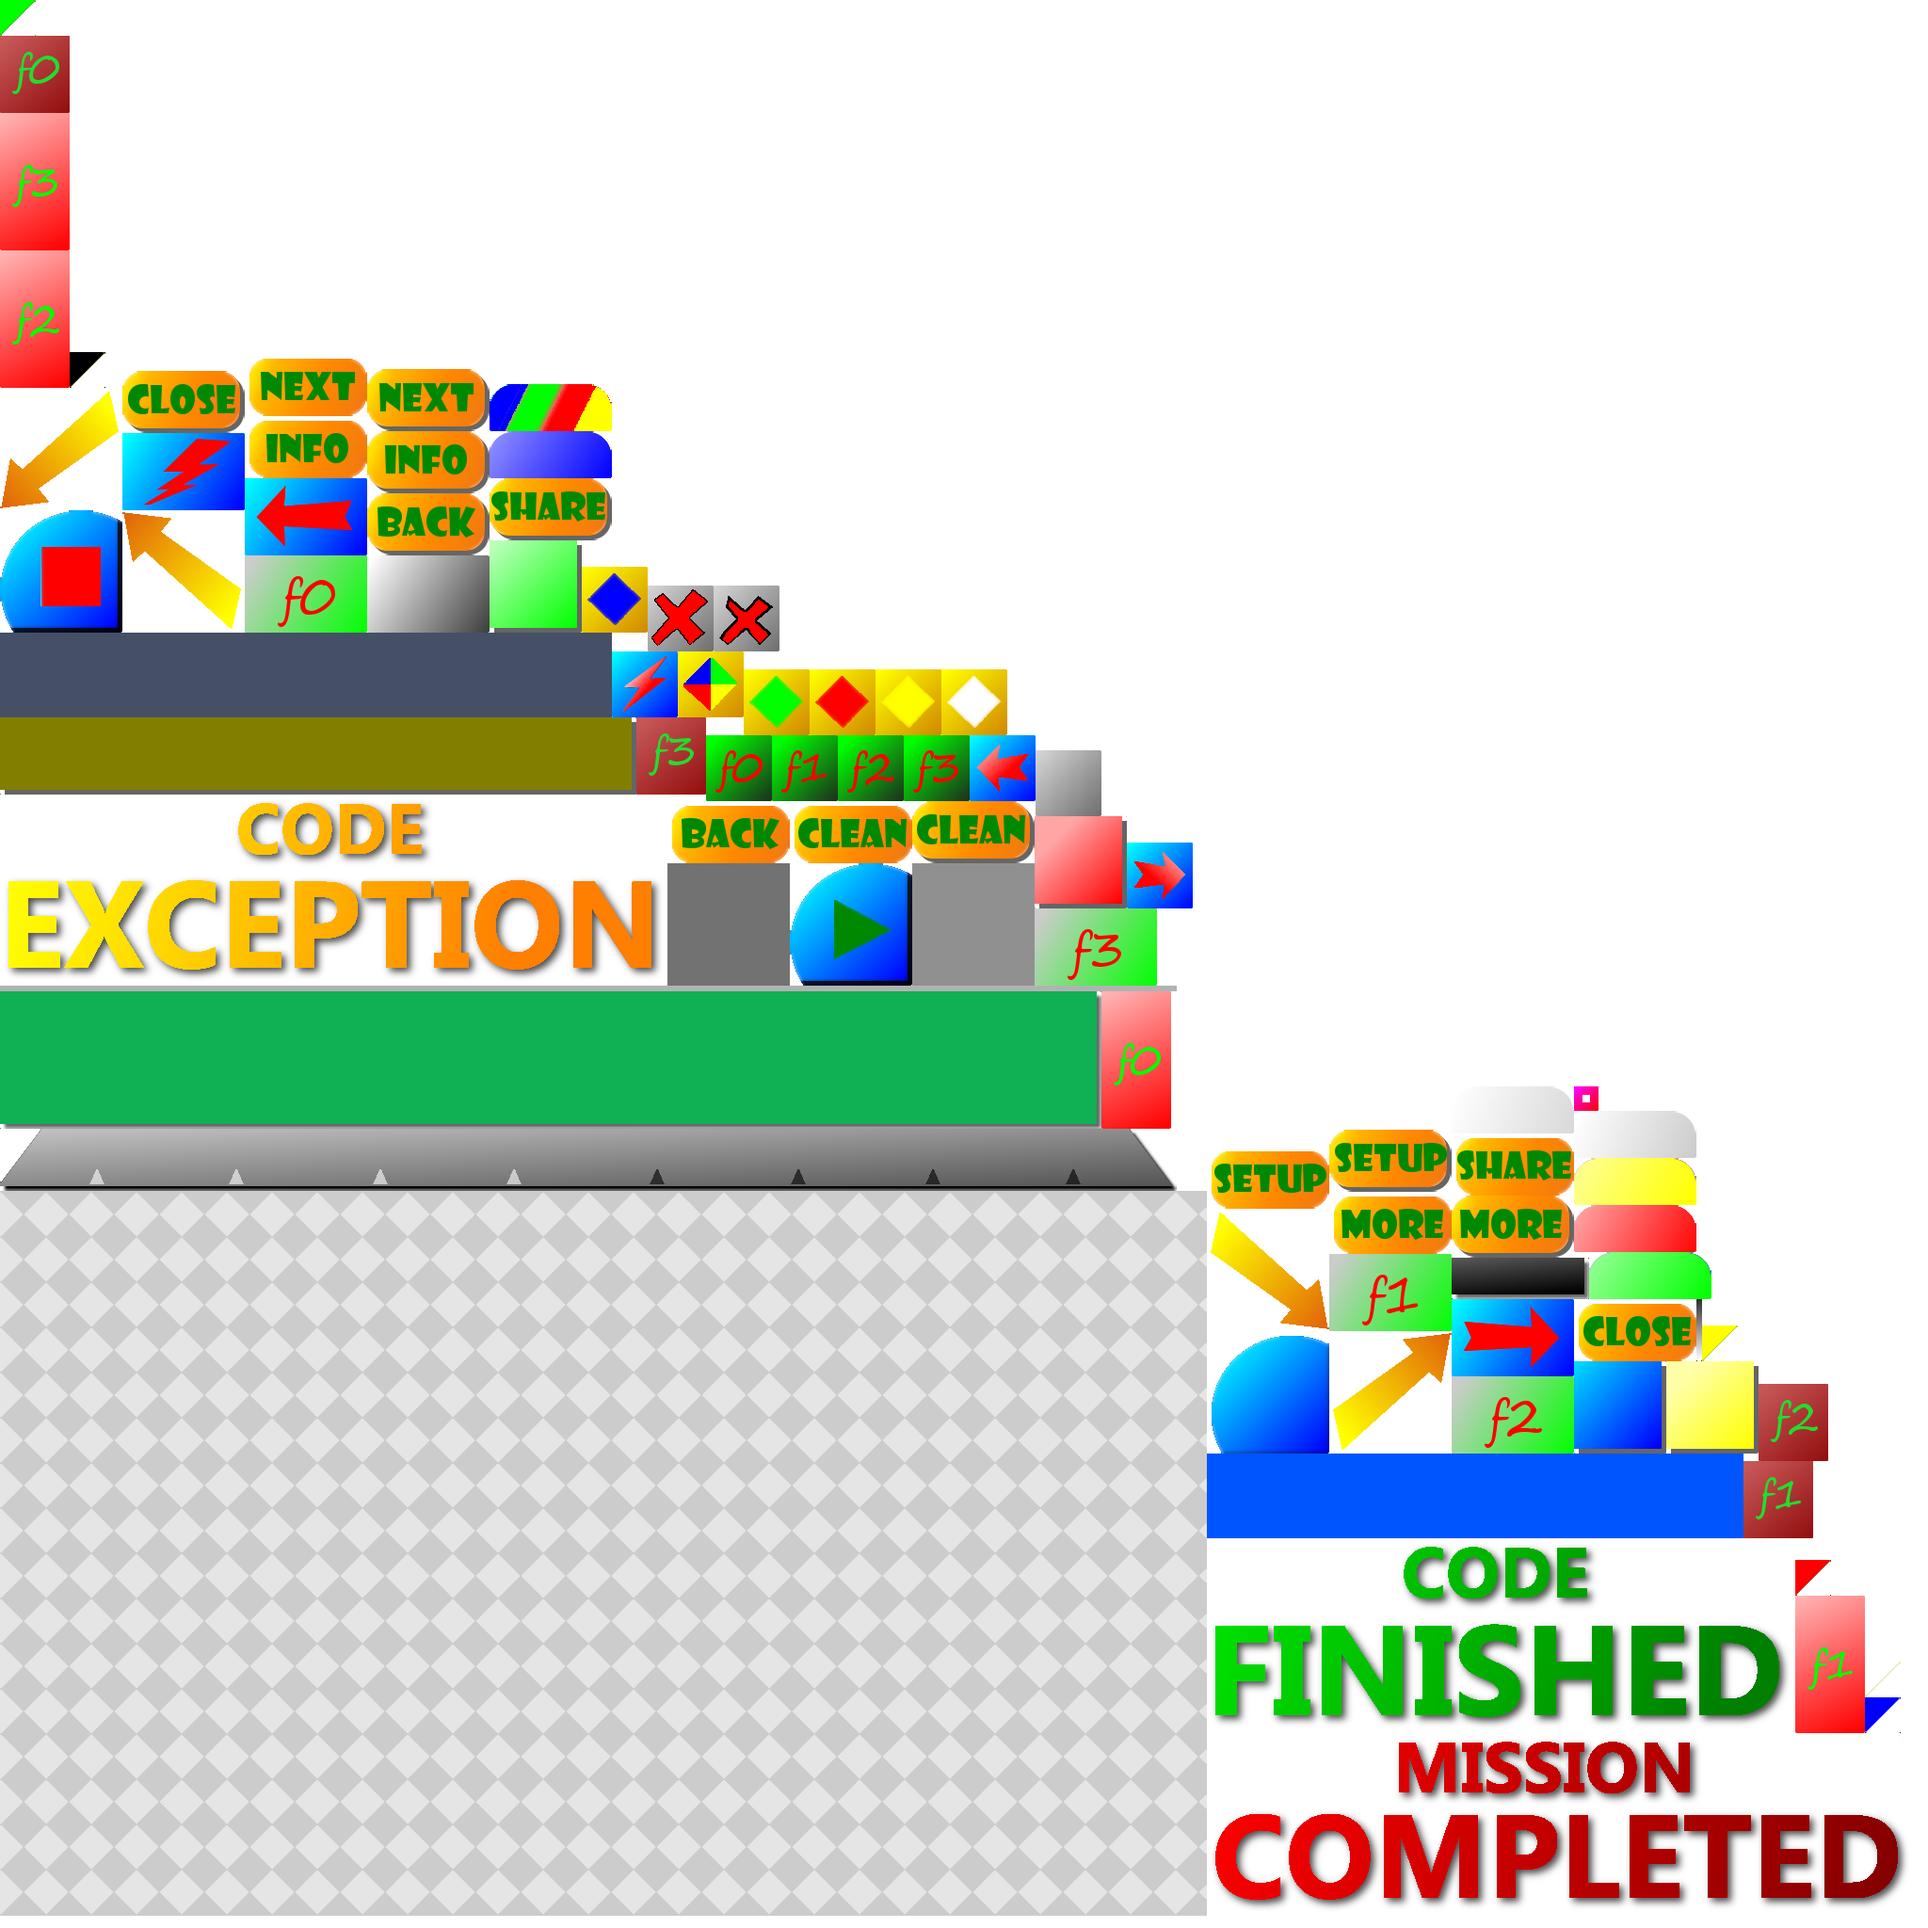
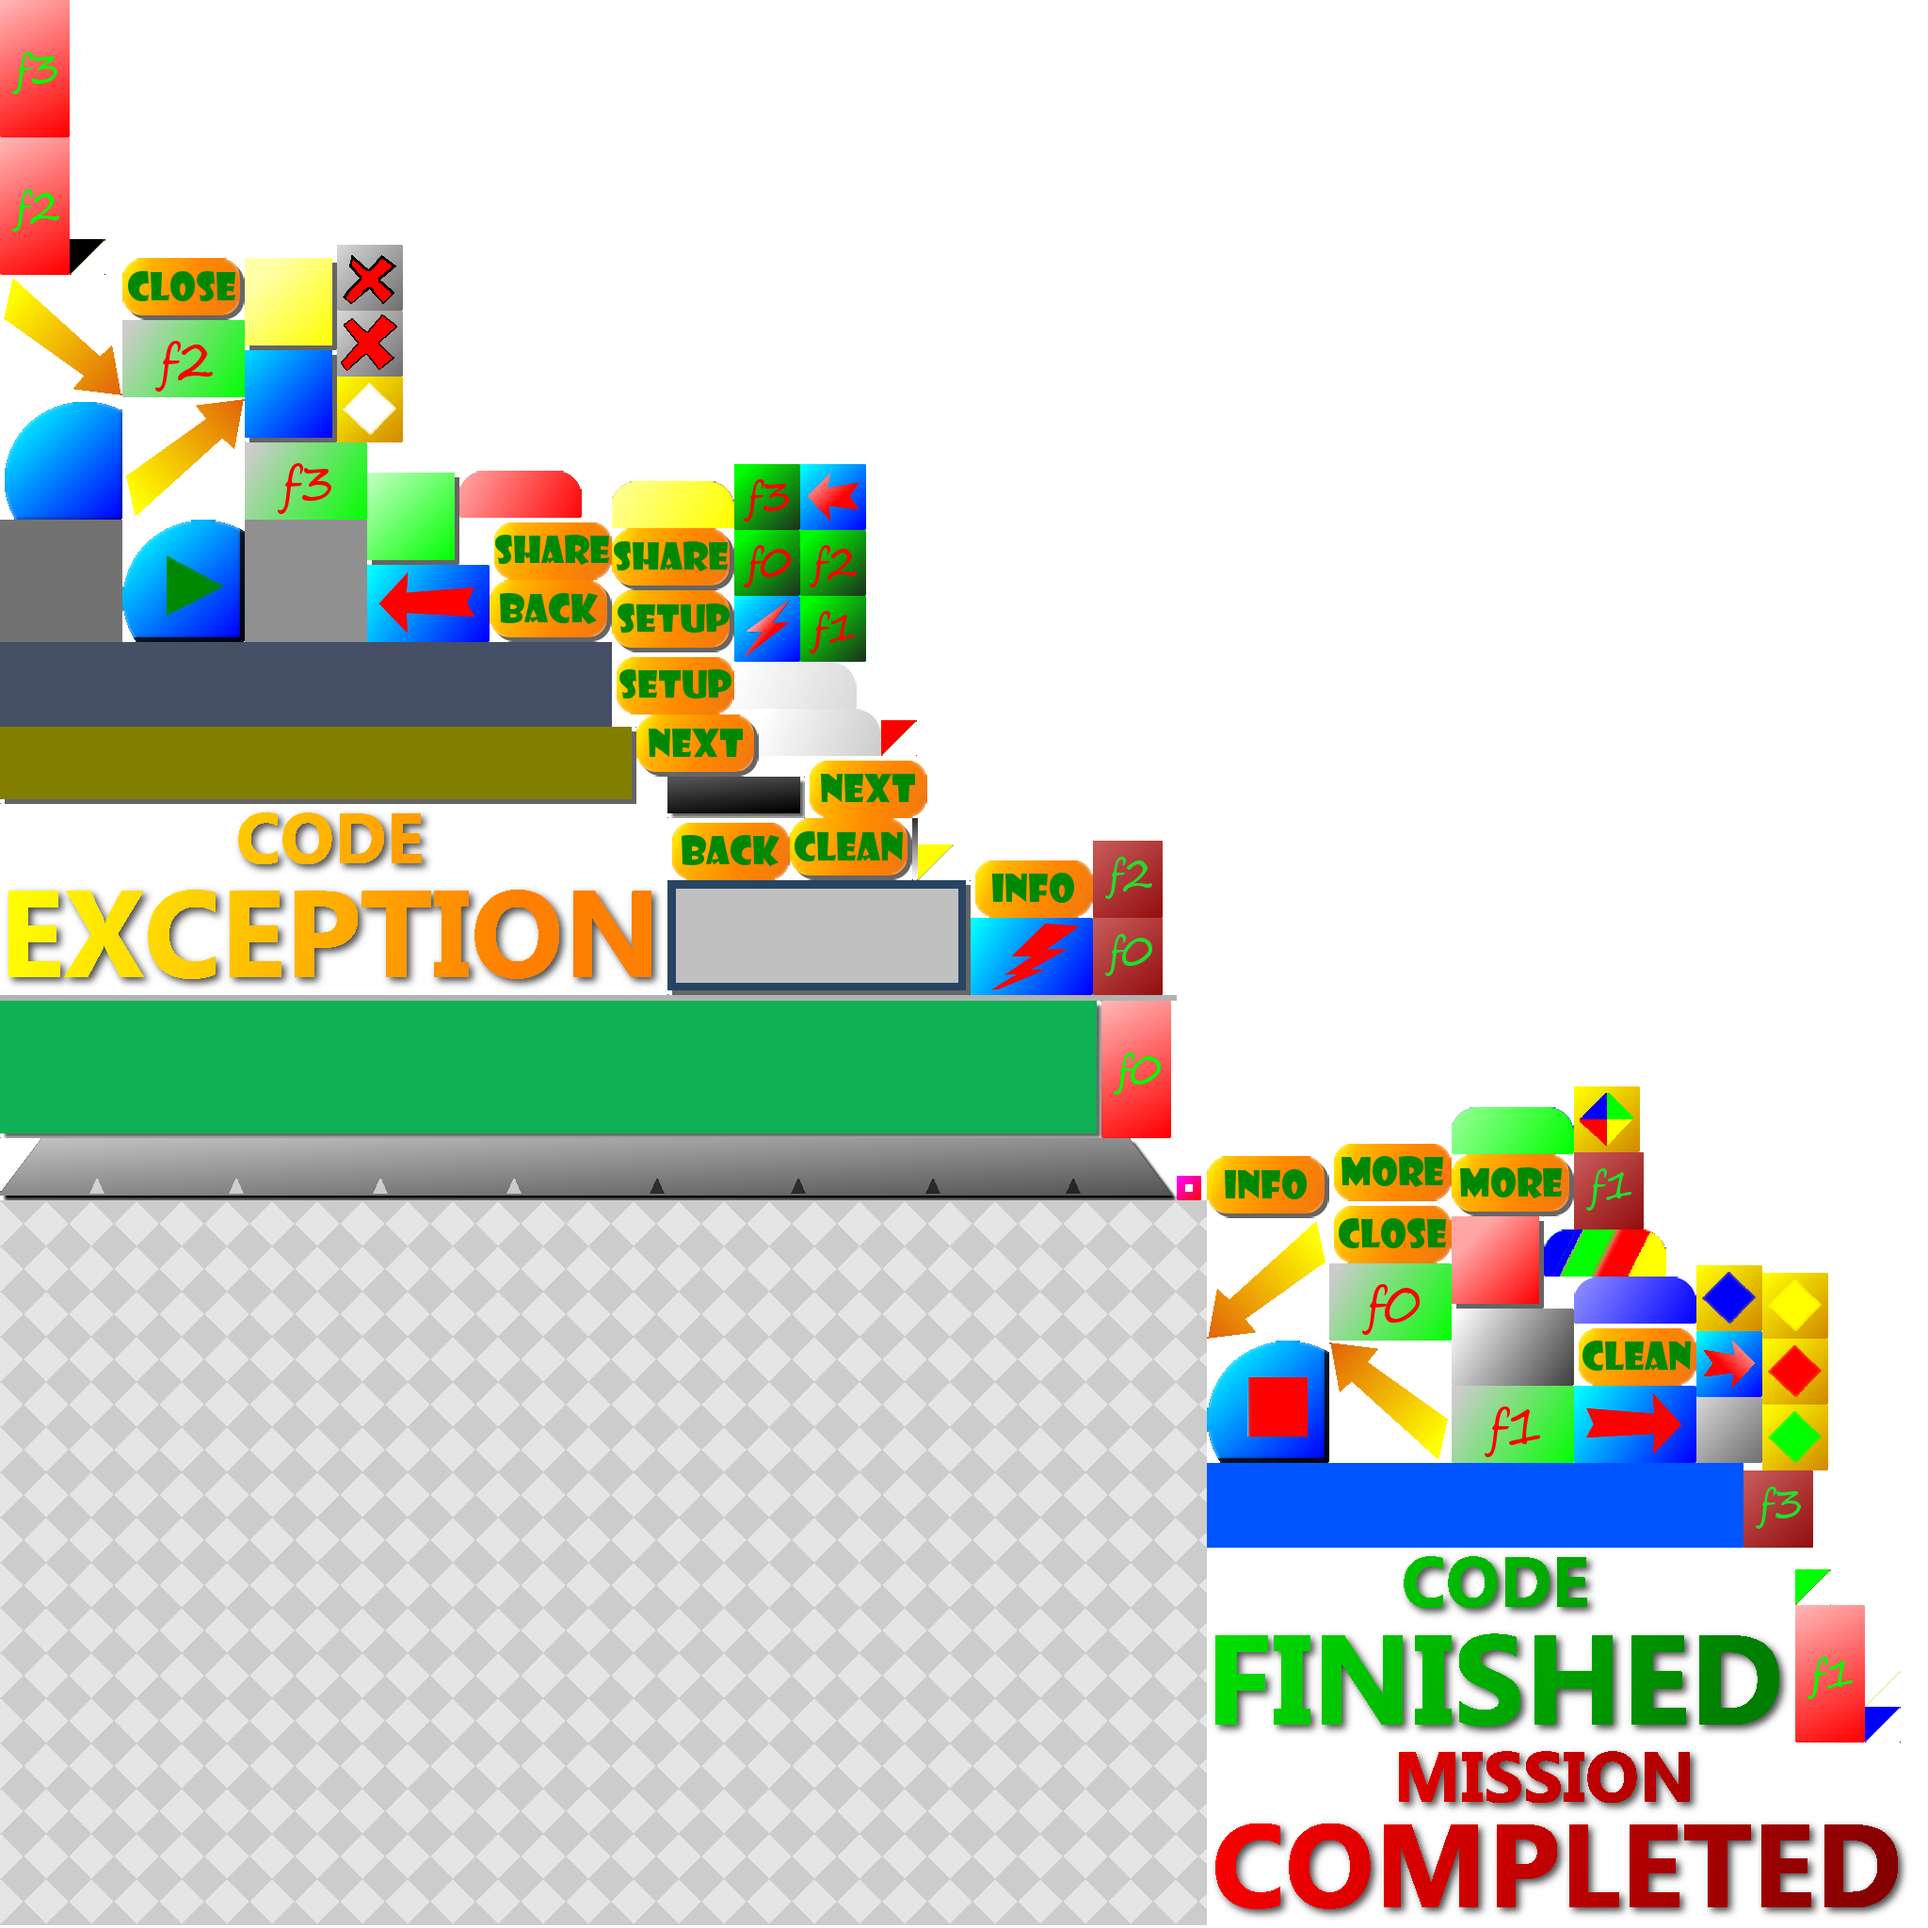
TitleGroup.

Changed region(s): [[0.0, 0.0, 1.0, 1.0]]

diff --git a/IP-Game/src/jie/android/ip/screen/play/TitleGroup.java b/IP-Game/src/jie/android/ip/screen/play/TitleGroup.java
@@ -3,6 +3,7 @@ package jie.android.ip.screen.play;
 import aurelienribon.tweenengine.Tween;
 import aurelienribon.tweenengine.TweenManager;
 
+import com.badlogic.gdx.graphics.Color;
 import com.badlogic.gdx.graphics.g2d.TextureAtlas;
 
 import jie.android.ip.CommonConsts.PackConfig;
@@ -44,13 +45,17 @@ public class TitleGroup extends ScreenGroup {
 		super.screen.addActor(this);
 	}
 	
-	public void setScript(final String pack, final String script) {
-		packTitle = new LabelActor(pack, super.resources.getBitmapTrueFont(45));
-		packTitle.setPosition(Const.Title.X_PACK, Const.Title.Y_PACK);
+	public void setTitle(final String pack, final String script) {
+		packTitle = new LabelActor(pack, super.resources.getBitmapTrueFont(40));
+		float x = (Const.Title.WIDTH - packTitle.getWidth()) / 2;
+		packTitle.setColor(new Color(0.58f, 0.43f, 0.27f, 1.f));
+		packTitle.setPosition(x, Const.Title.Y_PACK);
 		this.addActor(packTitle);
 		
-		scriptTitle = new LabelActor(pack, super.resources.getBitmapTrueFont(45));
-		scriptTitle.setPosition(Const.Title.X_SCRIPT, Const.Title.Y_SCRIPT);
+		scriptTitle = new LabelActor(script, super.resources.getBitmapTrueFont(45));
+		x = (Const.Title.WIDTH - scriptTitle.getWidth()) / 2;		
+		scriptTitle.setPosition(x, Const.Title.Y_SCRIPT);
+		scriptTitle.setColor(new Color(0.56f, 0.99f, 0.43f, 1.f));
 		this.addActor(scriptTitle);		
 	}
 	

diff --git a/IP-Game/src/jie/android/ip/screen/play/PlayConfig.java b/IP-Game/src/jie/android/ip/screen/play/PlayConfig.java
@@ -151,7 +151,7 @@ public interface PlayConfig {
 		}
 		
 		public interface Title {
-			public static final String FRAME = "title_frame"; 
+			public static final String FRAME = "title_frame";
 		}
 	}
 	
@@ -338,18 +338,18 @@ public interface PlayConfig {
 		}
 		
 		public interface Title {
-			public static final int WIDTH = 0;
-			public static final int HEIGHT = 0;
+			public static final int WIDTH = 320;
+			public static final int HEIGHT = 120;
 			
-			public static final int A_X = 0;
-			public static final int A_Y = 0;			
-			public static final int B_X = 0;
-			public static final int B_Y = 0;
+			public static final int A_X = 760;
+			public static final int A_Y = 24;			
+			public static final int B_X = 900;
+			public static final int B_Y = 330;
 			
-			public static final int X_PACK = 0;
-			public static final int Y_PACK = 0;
-			public static final int X_SCRIPT = 0;
-			public static final int Y_SCRIPT = 0;			
+//			public static final int X_PACK = 50;
+			public static final int Y_PACK = 88;
+//			public static final int X_SCRIPT = 80;
+			public static final int Y_SCRIPT = 28;			
 		}
 	}
 }

diff --git a/IP-Game/src/jie/android/ip/screen/play/PlayScreenListener.java b/IP-Game/src/jie/android/ip/screen/play/PlayScreenListener.java
@@ -3,6 +3,8 @@ package jie.android.ip.screen.play;
 public interface PlayScreenListener {
 
 	public interface ManagerEventListener {
+		public void onScriptLoaded(int packId, int scriptId, final String packTitle, final String scriptTitle);
+		
 		public void onBoxLoadCompleted(final Box.Tray tray, final Box.BlockArray source, final Box.BlockArray target);
 		public void onBoxPreReload(final Box.Tray tray, final Box.BlockArray source, final Box.BlockArray target);
 		public void onBoxMoved(final Box.Tray tray, final Box.Block block, int col, int row, int tcol, int trow);
@@ -13,7 +15,7 @@ public interface PlayScreenListener {
 		public void onCodeLineResetCompleted(final Code.Lines lines);
 		public void onExecuteSucc(int base_score, int score);
 		public void onExecuteFail();
-		public void onExecuteFinished();		
+		public void onExecuteFinished();
 	}
 	
 	public interface RendererEventListener {

diff --git a/IP-Game/src/jie/android/ip/database/DBAccess.java b/IP-Game/src/jie/android/ip/database/DBAccess.java
@@ -176,6 +176,26 @@ public class DBAccess {
 		final ResultSet rs = querySQL(sql);
 		return rs;
 	}
+	
+	public final String getPackTitle(int id) {
+		final String sql = "select title from pack where id = " + id;
+		final ResultSet rs = querySQL(sql);
+		try {
+			try {
+				if (rs.next()) {
+					return rs.getString(1);
+				}
+			} finally {
+				rs.close();
+			}
+		} catch (SQLException e) {
+			// TODO Auto-generated catch block
+			e.printStackTrace();
+		}
+		
+		return "No Title";
+	}
+	
 
 	public ResultSet loadPackItems(int id) {
 		final String sql = "select script.id, script.status, script.base_score, script.script, solution.score from script left join solution on (script.id=solution.script_id) where script.pack_id=? order by script.id";
@@ -238,7 +258,5 @@ public class DBAccess {
 		val.add(String.valueOf(id));
 		execSQL(sql, val);		
 	}
-
-	
 	
 }

diff --git a/IP-Game/src/jie/android/ip/screen/play/PlayRenderer.java b/IP-Game/src/jie/android/ip/screen/play/PlayRenderer.java
@@ -74,6 +74,10 @@ public class PlayRenderer {
 		public void onExecuteFinished() {
 			groupResult.showFinishedStage();
 		}
+		@Override
+		public void onScriptLoaded(int packId, int scriptId, final String packTitle, final String scriptTitle) {
+			groupTitle.setTitle(packTitle, scriptTitle);
+		}
 	};	
 	
 	private final PlayScreenListener.RendererInternalEventListener internalListener = new PlayScreenListener.RendererInternalEventListener() {

diff --git a/IP-Game/src/jie/android/ip/screen/play/PlayManager.java b/IP-Game/src/jie/android/ip/screen/play/PlayManager.java
@@ -226,7 +226,13 @@ public class PlayManager implements Disposable {
 
 		init();
 
+		managerListener.onScriptLoaded(packId, scriptId, getPackTitle(packId), script.getTitle());
+		
 		return true;
+	}
+
+	private final String getPackTitle(int id) {
+		return dbAccess.getPackTitle(id);
 	}
 
 	public void setEventListener(final PlayScreenListener.ManagerEventListener listener) {
